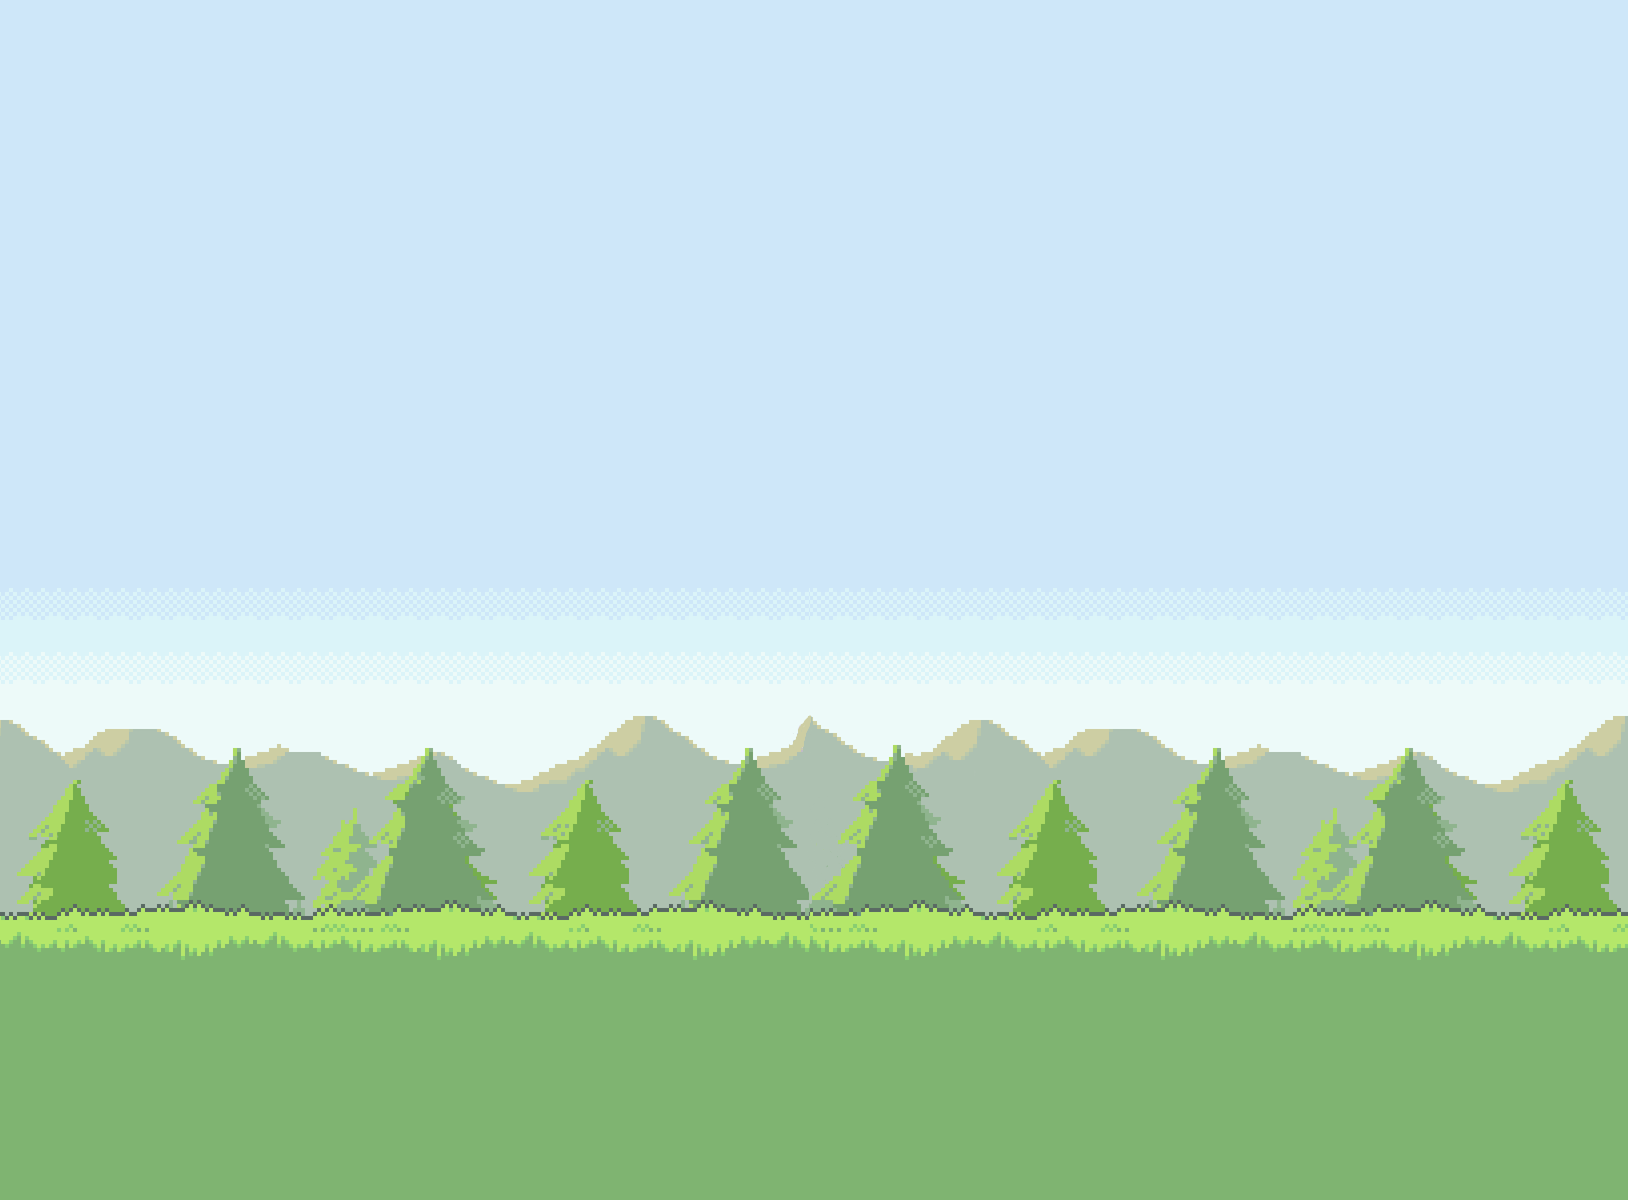
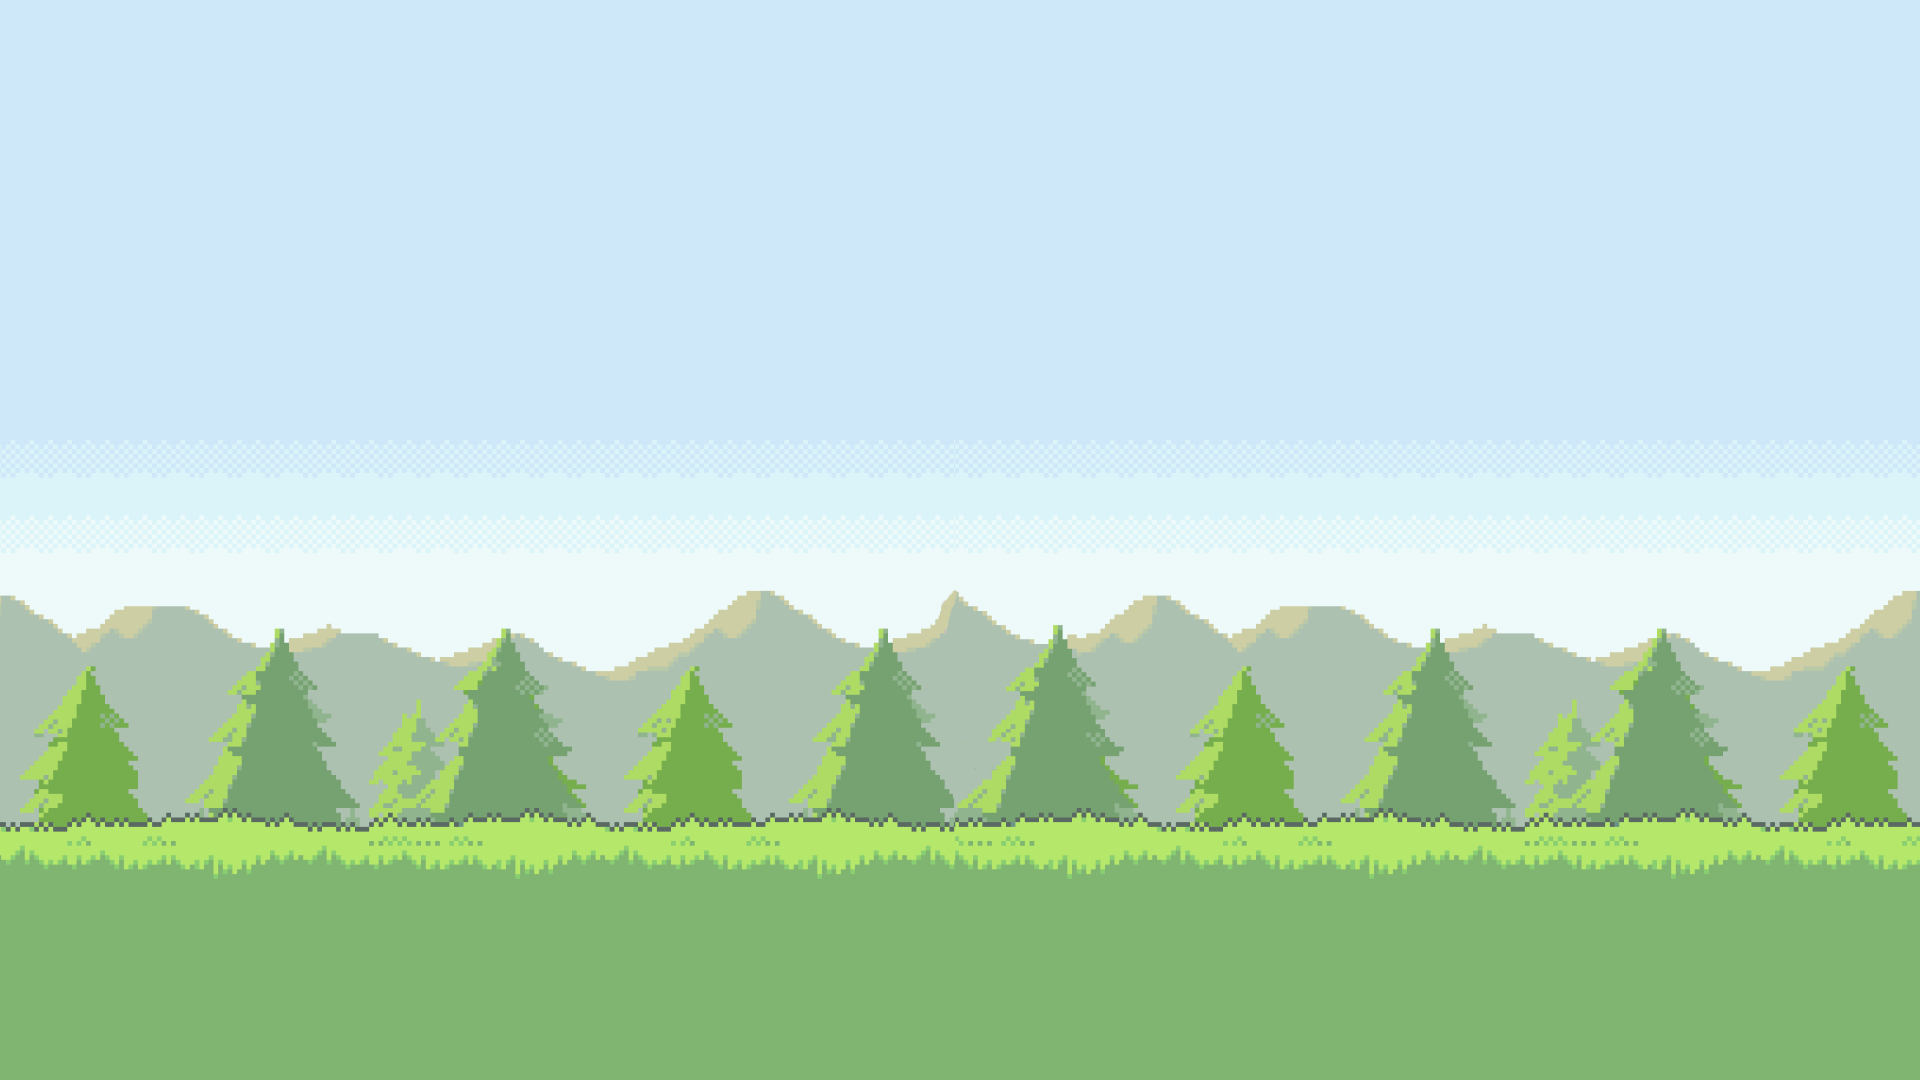
fix: grass background size

Changed region(s): [[0.0, 0.55, 1.0, 0.825], [0.0, 0.4583, 1.0, 0.5194]]

diff --git a/src/routes/leaderboard/+page.svelte b/src/routes/leaderboard/+page.svelte
@@ -96,7 +96,7 @@
 
     @keyframes slide-bg {
         from { background-position: 0% 0%; }
-        to   { background-position-x: 1628px; }
+        to   { background-position-x: 1920px; }
     }
 
     .back-btn {

diff --git a/src/routes/+page.svelte b/src/routes/+page.svelte
@@ -55,7 +55,7 @@
 
     @keyframes slide-bg {
         from { background-position: 0% 0%; }
-        to   { background-position-x: 1628px; }
+        to   { background-position-x: 1920px; }
     }
 
     h1 {

diff --git a/src/routes/+layout.svelte b/src/routes/+layout.svelte
@@ -103,7 +103,7 @@
 
   @keyframes slide-bg {
     from { background-position: 0% 0%; }
-    to   { background-position-x: 1628px; }
+    to   { background-position-x: 1920px; }
   }
 
   .start-screen h1 {
